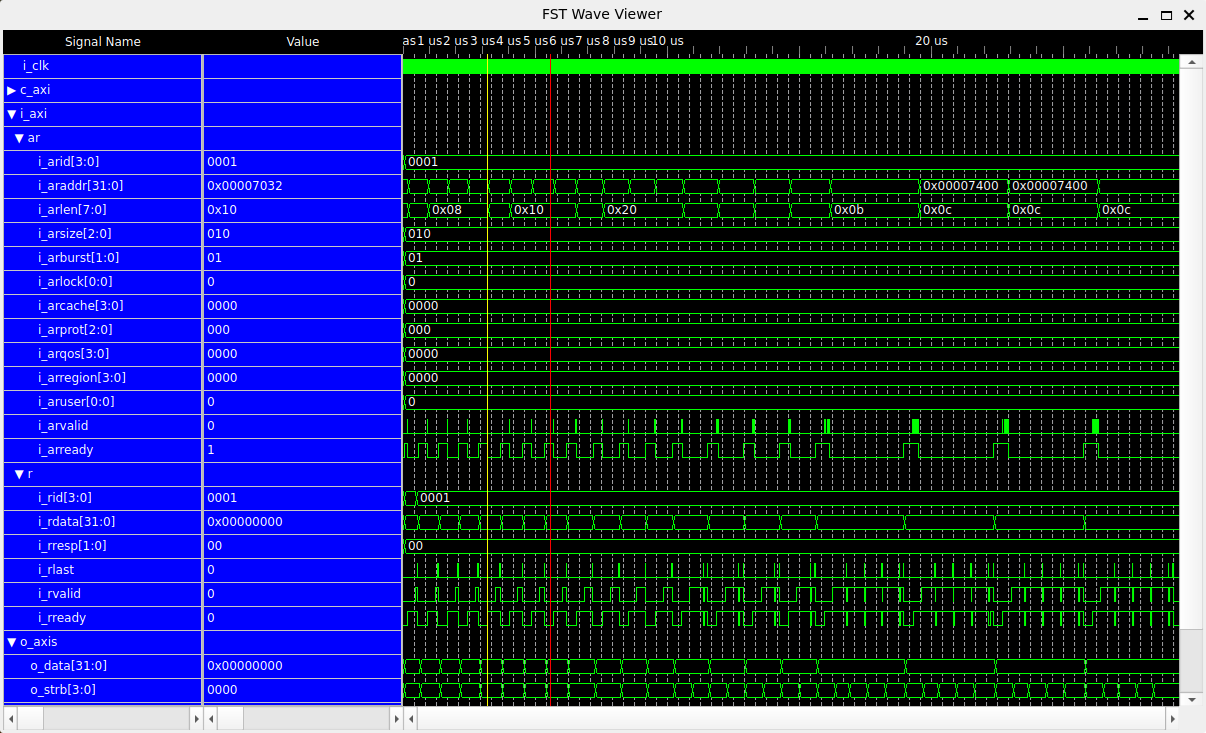
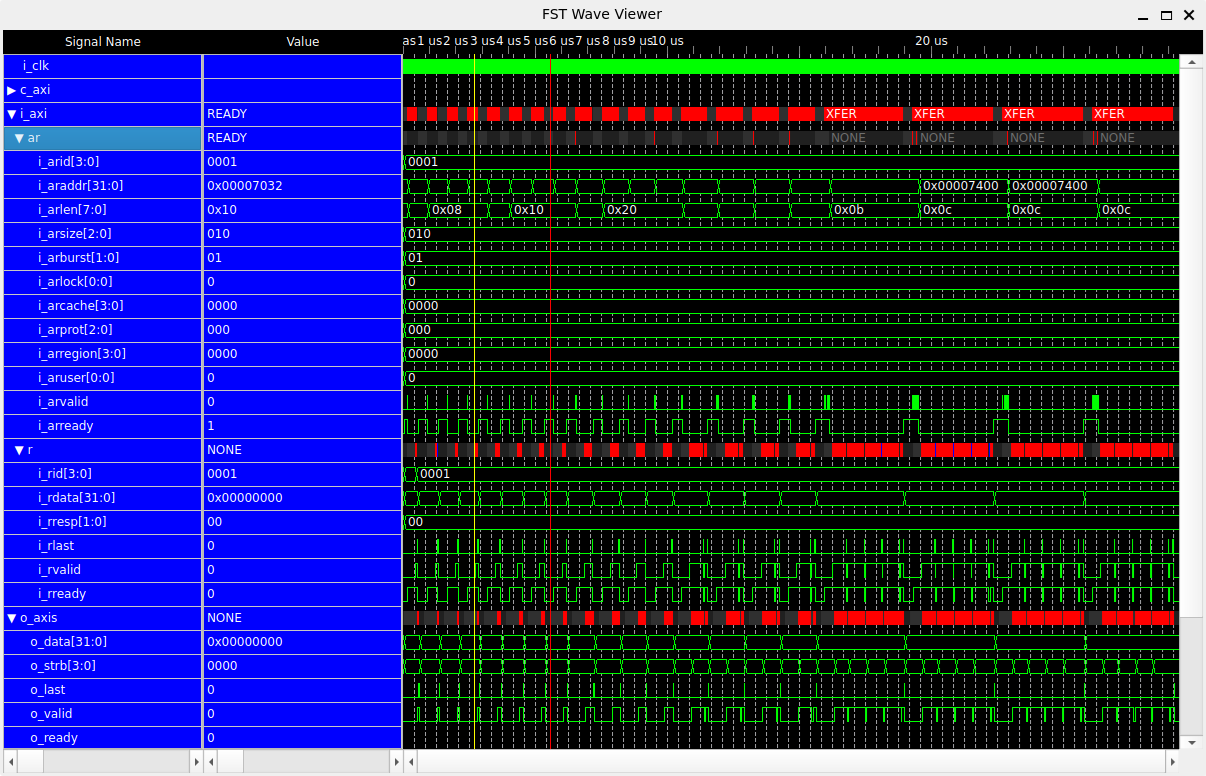
[update] examples/nvc/axi4_master_to_stream

Changed region(s): [[0.0, 0.0, 1.0, 0.9905], [0.9818, 0.0, 1.0, 0.03]]

diff --git a/examples/nvc/axi4_master_to_stream/axi4_template.py b/examples/nvc/axi4_master_to_stream/axi4_template.py
@@ -15,21 +15,6 @@ class Template:
     def add_virtual_module(self, vm_name):
         return self.root_group.model.add_virtual_module(vm_name)
     
-    def add_input_signals_to_virtual_module(self, virtual_module):
-        def add_input_singals(template, group_option):
-            for item in template:
-                if "group" in item:
-                    child_contents = item["group"]
-                    group_option   = group_option.merge(item.get("option"))
-                    add_input_singals(child_contents, group_option)
-                if "signal" in item:
-                    signal_name    = item["name"]
-                    signal_pattern = item["signal"]
-                    signal_option  = group_option.merge(item.get("option")).get("signal")
-                    virtual_module.add_input_signal(signal_name, signal_pattern, signal_option)
-        option = self.root_group.child_option.merge(self.option)
-        add_input_singals(self.template, option)
-                    
 class AXI4_Read_Template(Template):
     VIEW_TEMPLATE = [
         {"name"  : "aclk",

diff --git a/examples/nvc/axi4_master_to_stream/Readme.md b/examples/nvc/axi4_master_to_stream/Readme.md
@@ -25,6 +25,7 @@ Files
 
 * `axi4_m2s_tb_32_32_256_sync.fst` — Example waveform file used by PyLogicViewKit.
 * `axi4_m2s_tb_32_32_256_sync.py` — Python scripts for defining the waveform view model.
+* `axi4_template.py`              — Python scripts for AXI4_Read/AXI4_Write/AXI4_Stream waveform template.
 * `Readme.md` — This document.
 
 ### Files Required to Rerun the Simulation
